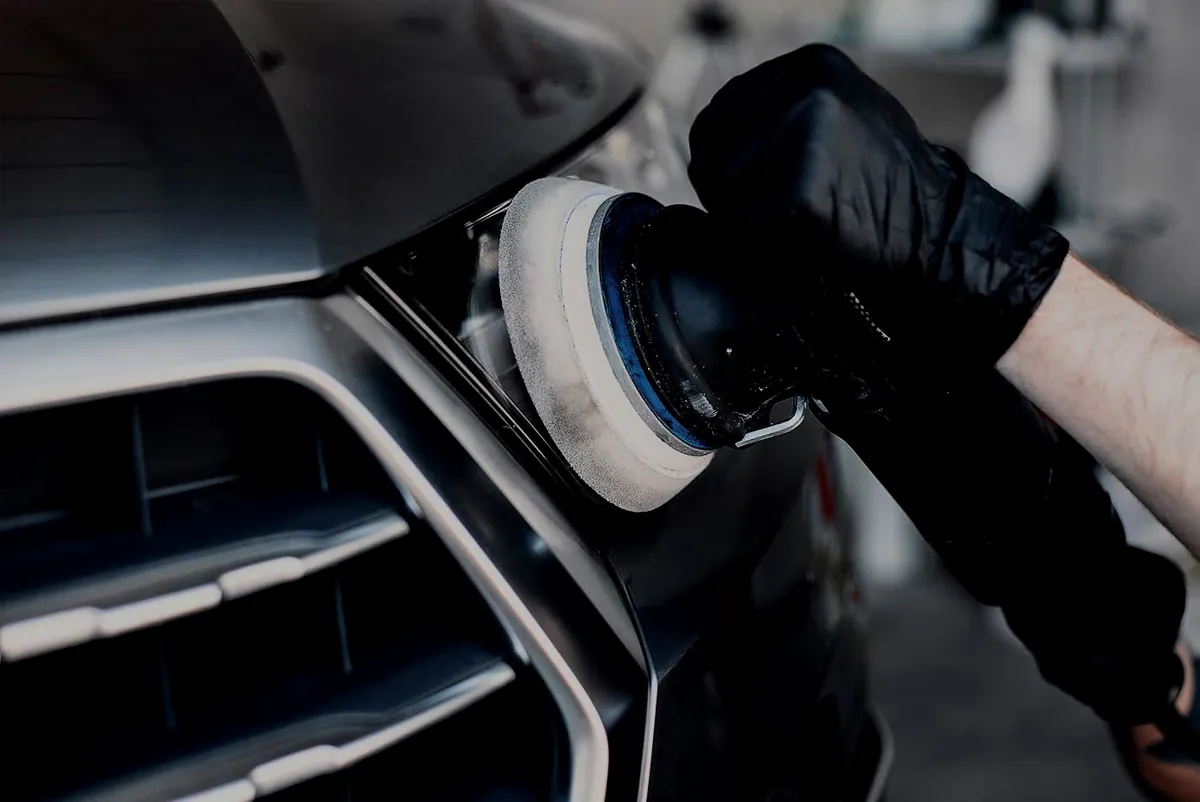
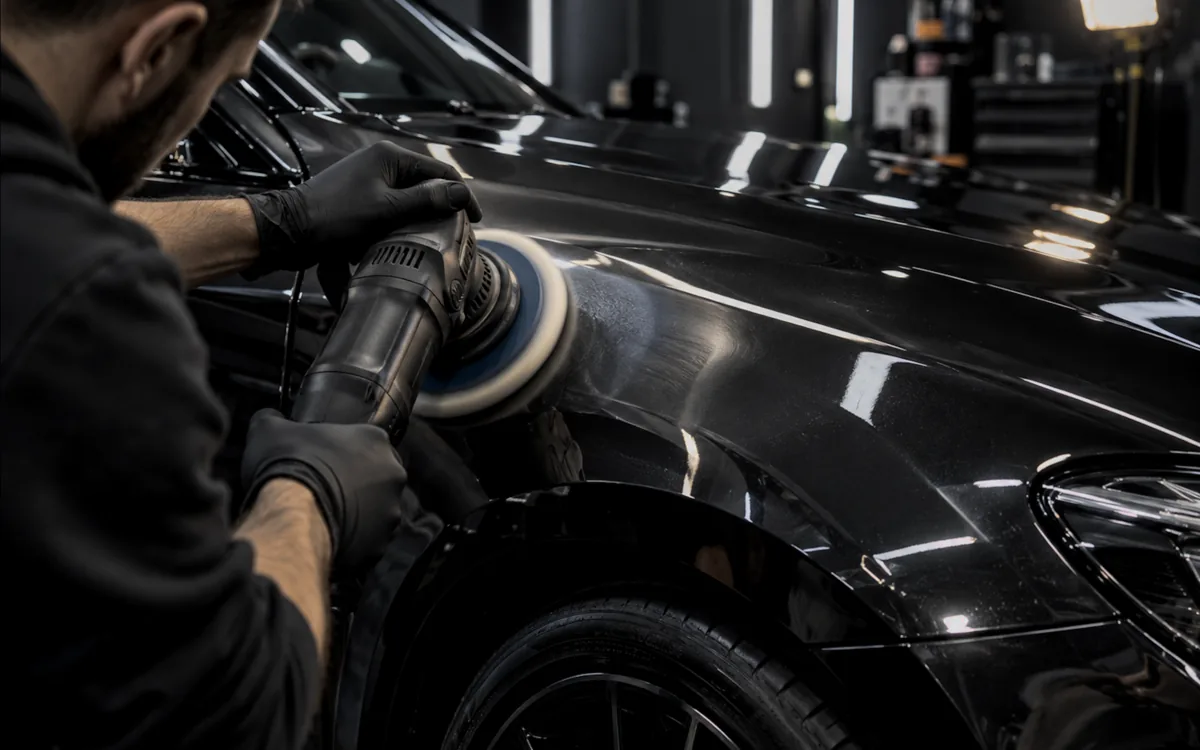
Photo polissage remplacee
Technicien a la polisseuse orbitale sur une aile sombre, sous eclairage
d'atelier : le geste est lisible, ce que ne montrait pas l'ancien plan.
PNG source de 6,1 Mo remplace par quatre WebP de 17 a 70 Ko, recadres en
16:10. Les variantes de l'ancienne photo sont supprimees.

Les quatre vignettes de service montrent desormais toutes une main au
travail sur une voiture sombre : la serie se tient.

diff --git a/_src/pages/home.html b/_src/pages/home.html
@@ -126,10 +126,12 @@
         <div class="svc-card__media">
           <span class="index-num svc-card__num">04</span>
           <img src="/assets/img/car-polishing-paint-correction-700.webp"
-               srcset="/assets/img/car-polishing-paint-correction-460.webp 460w, /assets/img/car-polishing-paint-correction-700.webp 700w"
+               srcset="/assets/img/car-polishing-paint-correction-460.webp 460w,
+                       /assets/img/car-polishing-paint-correction-700.webp 700w,
+                       /assets/img/car-polishing-paint-correction-900.webp 900w"
                sizes="(min-width:1000px) 25vw, (min-width:640px) 50vw, 100vw"
-               alt="Machine polishing a car body panel during paint correction in Singapore"
-               width="1389" height="928" loading="lazy" decoding="async">
+               alt="Detailer machine polishing the wing of a dark car during paint correction in Singapore"
+               width="2530" height="1581" loading="lazy" decoding="async">
         </div>
         <div class="svc-card__body">
           <h3>Polishing &amp; Paint Correction</h3>

diff --git a/index.html b/index.html
@@ -228,10 +228,12 @@
         <div class="svc-card__media">
           <span class="index-num svc-card__num">04</span>
           <img src="/assets/img/car-polishing-paint-correction-700.webp"
-               srcset="/assets/img/car-polishing-paint-correction-460.webp 460w, /assets/img/car-polishing-paint-correction-700.webp 700w"
+               srcset="/assets/img/car-polishing-paint-correction-460.webp 460w,
+                       /assets/img/car-polishing-paint-correction-700.webp 700w,
+                       /assets/img/car-polishing-paint-correction-900.webp 900w"
                sizes="(min-width:1000px) 25vw, (min-width:640px) 50vw, 100vw"
-               alt="Machine polishing a car body panel during paint correction in Singapore"
-               width="1389" height="928" loading="lazy" decoding="async">
+               alt="Detailer machine polishing the wing of a dark car during paint correction in Singapore"
+               width="2530" height="1581" loading="lazy" decoding="async">
         </div>
         <div class="svc-card__body">
           <h3>Polishing &amp; Paint Correction</h3>
